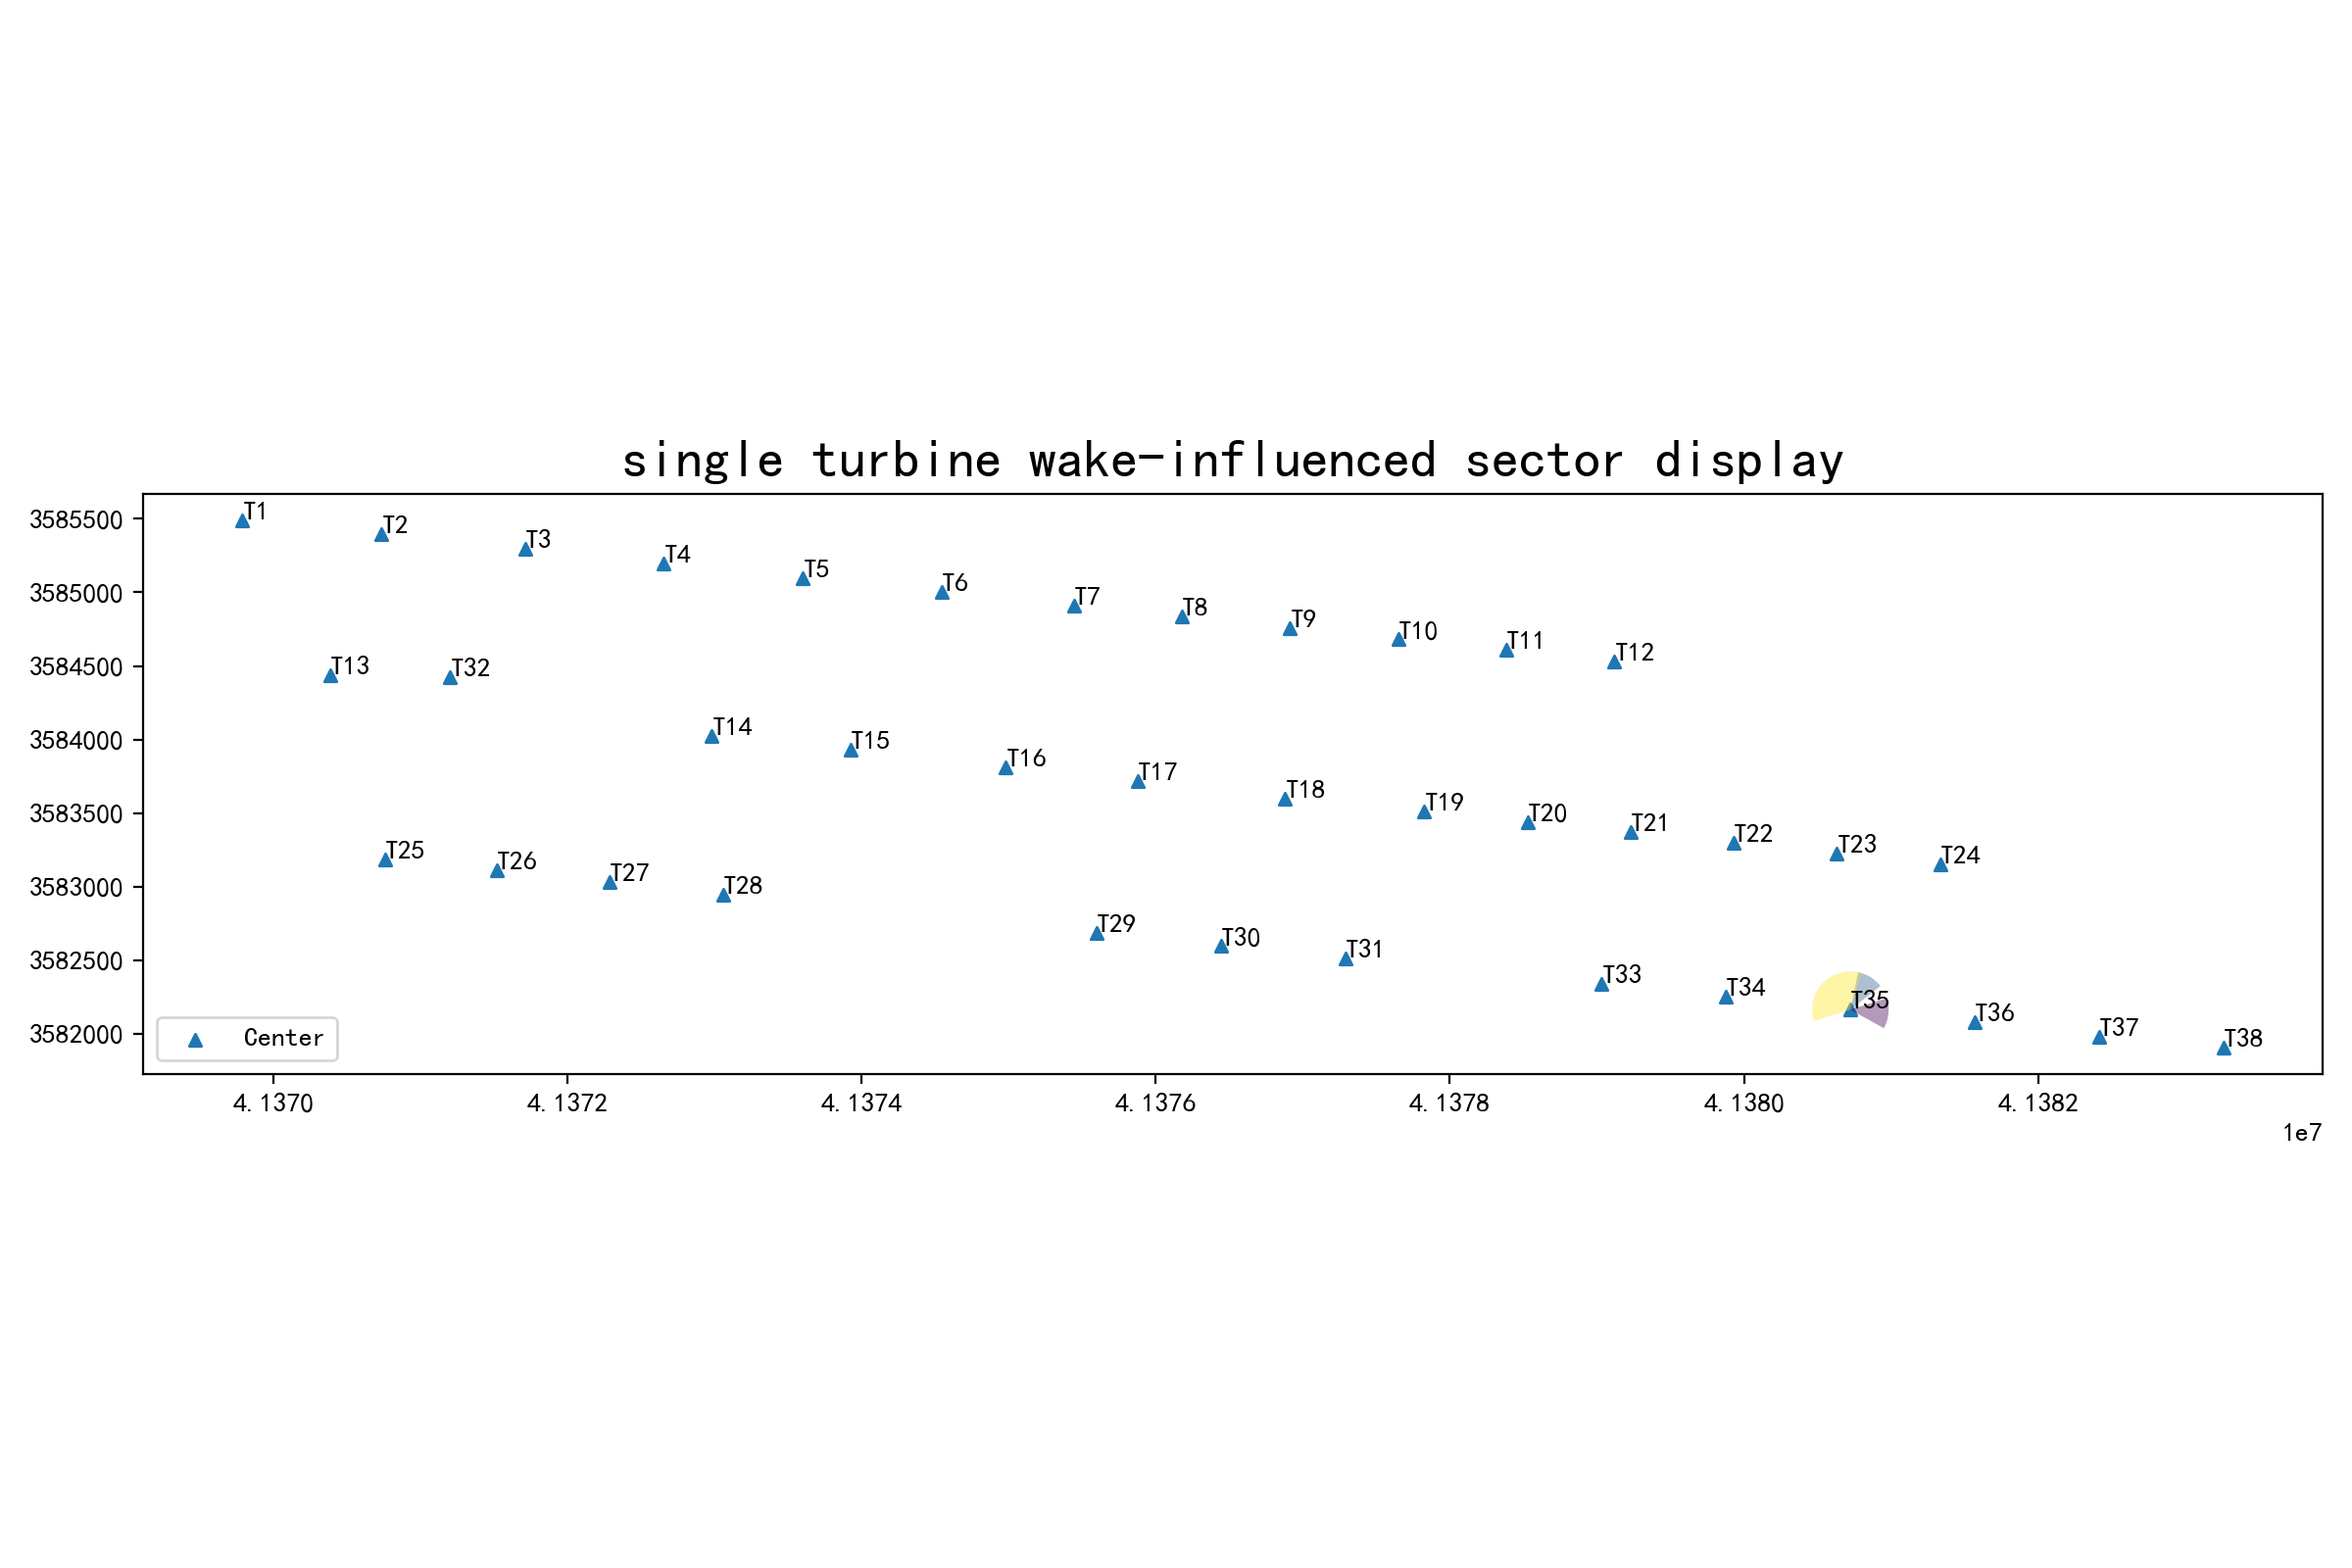
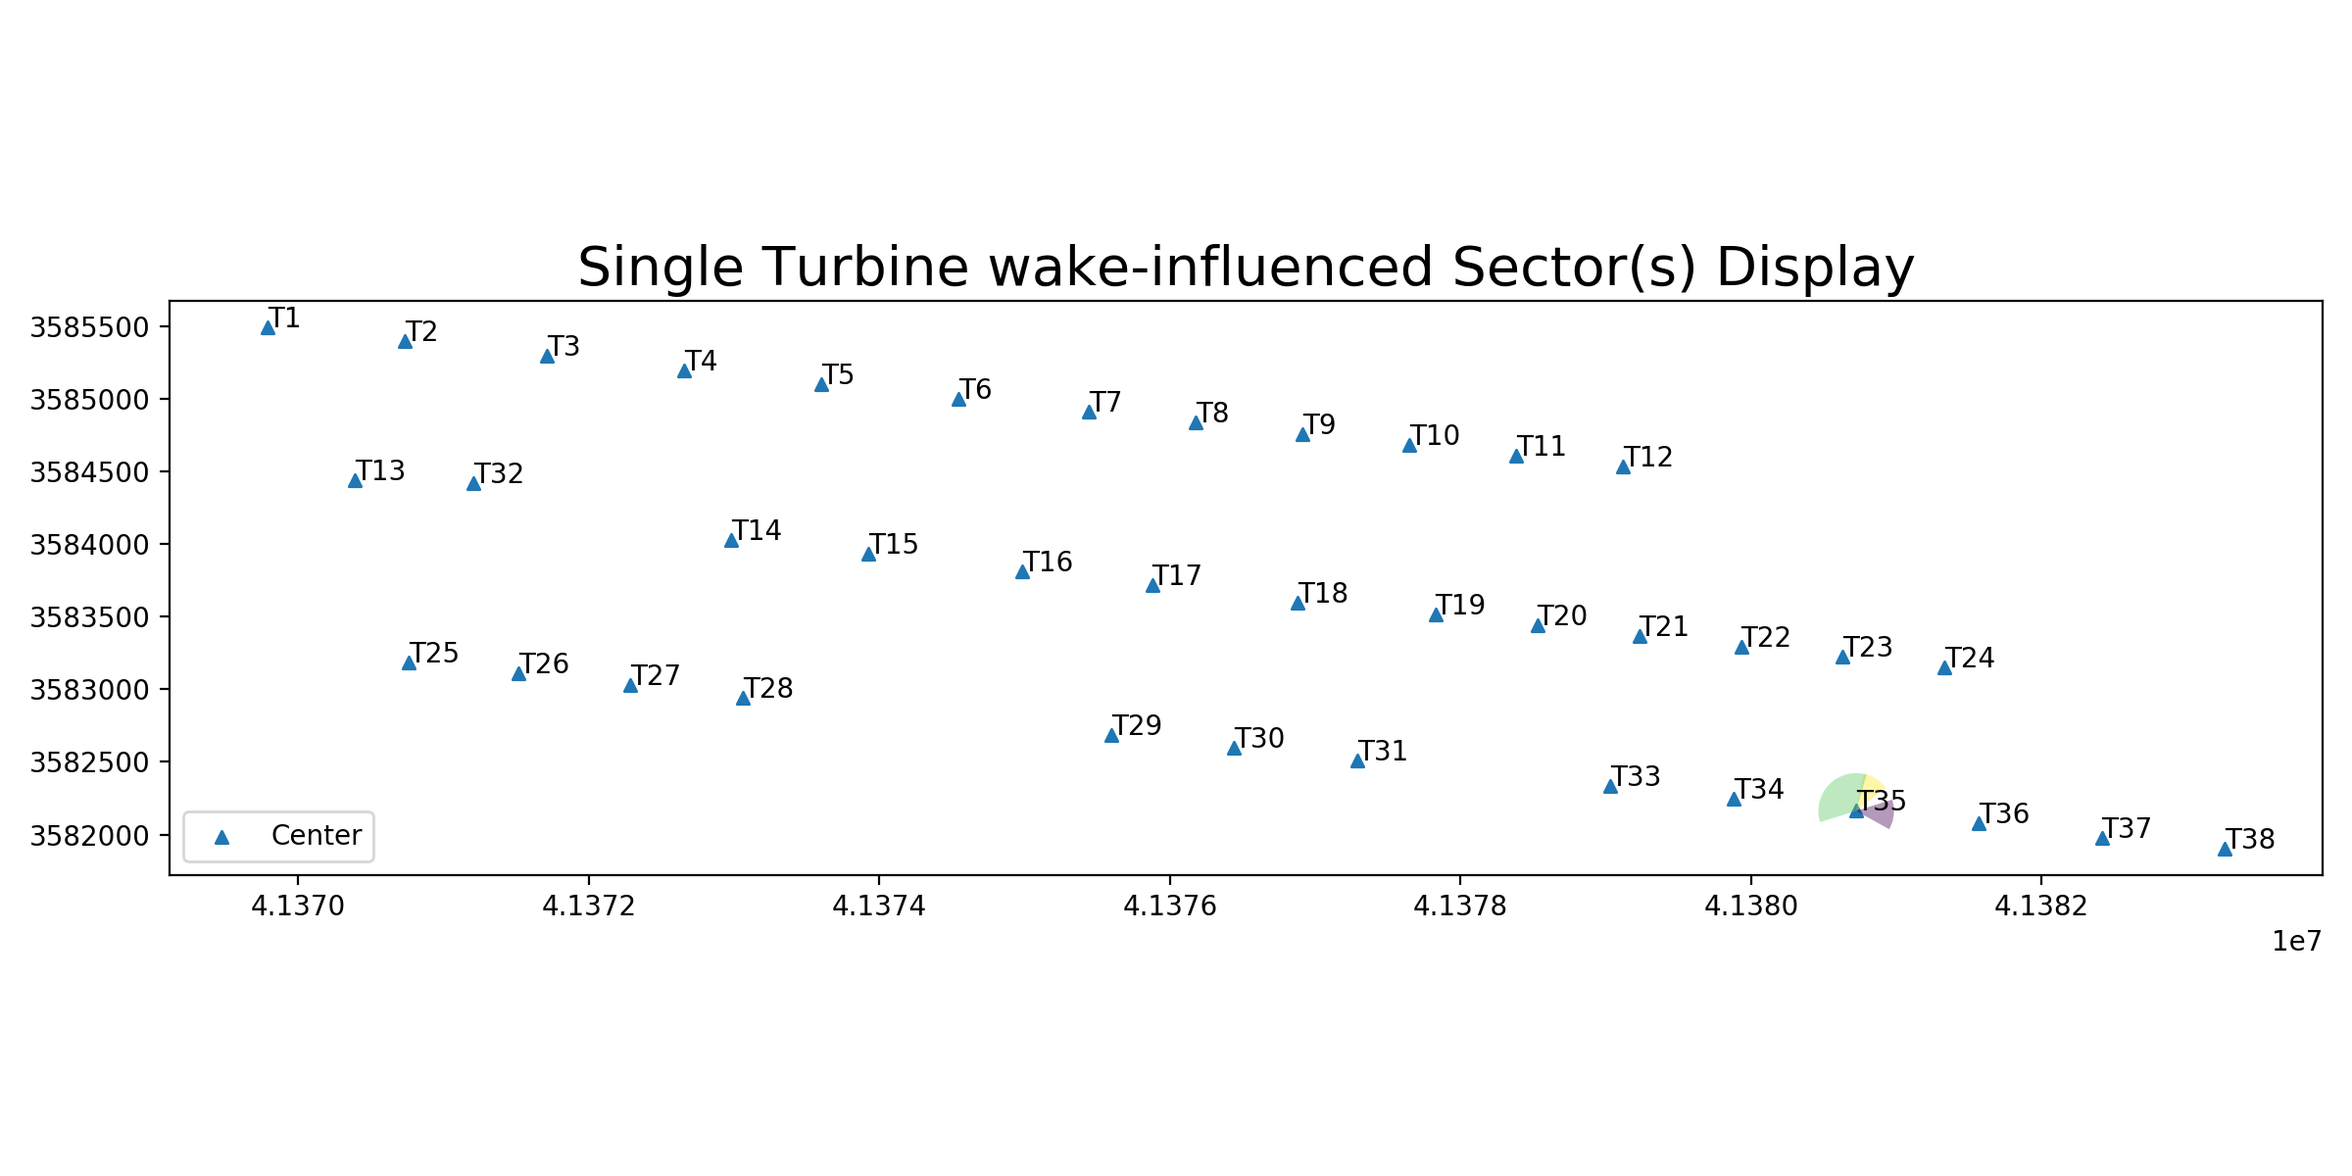
published version 0.2

diff --git a/function/wedges_display.py b/function/wedges_display.py
@@ -33,10 +33,10 @@ def wedgeplt(x_axis, y_axis, label, x_i, y_i, rotor, tur_id, sectors, image_prop
     :param save_path: 存储路径
     :return:
     """
-    fig = plt.figure(figsize=(12, 8), tight_layout=True)
+    fig = plt.figure(figsize=(12, 6), tight_layout=True)
     ax1 = fig.add_subplot(1, 1, 1)
     ax1.scatter(x_axis, y_axis, marker='^', s=20, label='Center')
-    ax1.set_title('single turbine {} sector display'.format(image_property), fontsize=20)
+    ax1.set_title('Single Turbine {} Sector(s) Display'.format(image_property), fontsize=20)
 
     for i in range(0, len(x_axis)):  # 标注机位编号
         ax1.text(x_axis[i], y_axis[i], label[i])
@@ -72,10 +72,10 @@ def wedgeplts(x_axis, y_axis, label, patches, image_property, save_path):
     :param save_path: 存储路径
     :return:
     """
-    fig = plt.figure(figsize=(12, 8), tight_layout=True)
+    fig = plt.figure(figsize=(12, 6), tight_layout=True)
     ax2 = fig.add_subplot(1, 1, 1)
     ax2.scatter(x_axis, y_axis, marker='^', s=20, label='Center')
-    ax2.set_title('windfarm turbine {} sector display'.format(image_property), fontsize=20)
+    ax2.set_title('Windfarm Turbine Group {} Sectors Display'.format(image_property), fontsize=20)
 
     for i in range(0, len(x_axis)):  # 标注机位编号
         ax2.text(x_axis[i], y_axis[i], label[i])

diff --git a/function/tur_site_display.py b/function/tur_site_display.py
@@ -11,7 +11,6 @@ import os
 
 plt.rcParams['savefig.dpi'] = 200
 plt.rcParams['figure.dpi'] = 100
-plt.rcParams['figure.figsize'] = (8, 8)
 plt.rcParams['font.sans-serif'] = ['SimHei']  # 用来正常显示中文标签
 plt.rcParams['axes.unicode_minus'] = False  # 用来正常显示负号
 
@@ -26,12 +25,12 @@ def turbinesite(x_axis, y_axis, label, rotor, save_path):
     :param save_path: 保存文件夹路径
     :return: 返回一个实际无效的‘fig画布’
     """
-    fig = plt.figure(figsize=(12, 8), tight_layout=True)
+    fig = plt.figure(figsize=(12, 6), tight_layout=True)
     ax1 = fig.add_subplot(1, 1, 1)
     ax1.scatter(x_axis, y_axis, marker='^', s=20, label='Center')
     ax1.scatter(x_axis, y_axis, marker='o', c=rotor / max(rotor), s=rotor, alpha=0.3, label='1.0(D)')
     ax1.legend(fontsize=10, loc='lower left')
-    ax1.set_title('turbine site display', fontsize=20)
+    ax1.set_title('Turbine Site Display', fontsize=20)
     ax1.set_aspect('equal')
     for i in range(0, len(x_axis)):
         ax1.text(x_axis[i], y_axis[i], label[i])

diff --git a/main.py b/main.py
@@ -33,7 +33,7 @@ site_info = pd.read_csv('input_windfarm_info/site_info.csv', header=0)
 windfarm_fig = tur_site_display.turbinesite(site_info['X(m)'], site_info['Y(m)'], site_info['LABEL'],
                                             site_info['rotor diameter(m)'], output_path)
 
-writer = pd.ExcelWriter(os.path.join(output_path, 'result_{}.xlsx'.format(report_version_time)))
+writer = pd.ExcelWriter(os.path.join(output_path, 'Detailed-analysis-results_{}.xlsx'.format(report_version_time)))
 wake_patches = []  # 存储尾流影响扇区楔形绘图信息
 testing_patches = []  # 存储自由流扇区楔形绘图信息
 for i in range(len(site_info['LABEL'])):  # 第一层主循环，循环所有风机的测试扇区

diff --git a/README.md b/README.md
@@ -1,24 +1,39 @@
 # windturbine_wake_effect_analysis
 
-## windturbine wake effect (free-flow or wake-affected) analysis
-运行结果展示e.g.
+Wake influence analysis on wind turbine（single or group), helping to determin the free-flow or wake-affected sectors
+based on IEC61400-12.
 
 
-风电场机位、机型示意图
+Some of the main results are listed below:
+
+## Plot Output
+1. Example of windfarm turbine sites display
 ![wind-turbine-site](picture_md/风电场机位、机型示意图.png)
 
 
-T35机位free-flow扇区示意图
+2. Example of single turbine free-flow sector(s) display
 ![T35-free-flow](picture_md/T35机位free-flow扇区示意图.png)
 
 
-T35机位wake-influenced扇区示意图
+3. Example of single turbine wake-influenced sector(s) display
 ![T35-wake-influenced](picture_md/T35机位wake-influenced扇区示意图.png)
 
 
-风电场free-flow扇区示意图
+4. Windfarm turbine group free-flow sectors display
 ![windfarm-free-flow](picture_md/风电场free-flow扇区示意图.png)
 
 
-风电场wake-influenced扇区示意图
+5. Windfarm turbine group wake-influenced sectors display
 ![windfarm-wake-influenced](picture_md/风电场wake-influenced扇区示意图.png)
+
+
+## Analysis Output
+1. Example of analysis output files
+![analysis output files](picture_md/所有分析结果展示.png)
+
+2. Example of detailed-analysis-result on single WTG
+![detailed-analysis-result](picture_md/分析报告-机位点.png)
+
+3. Example of detailed-analysis-result on WTG group(Summary)
+![detailed-analysis-results](picture_md/分析报告-summary.png)
+
